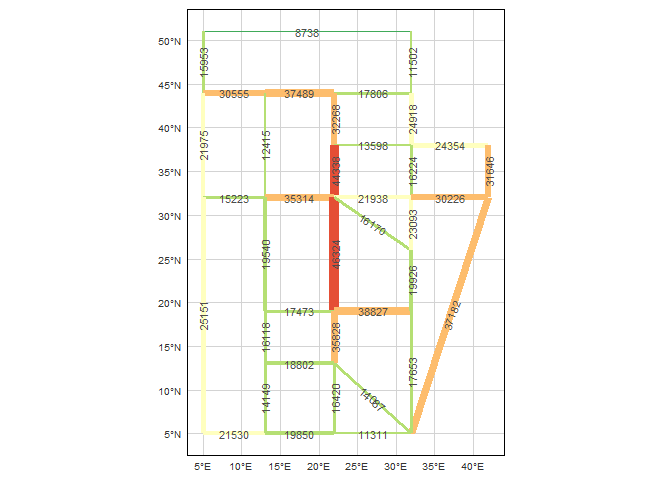
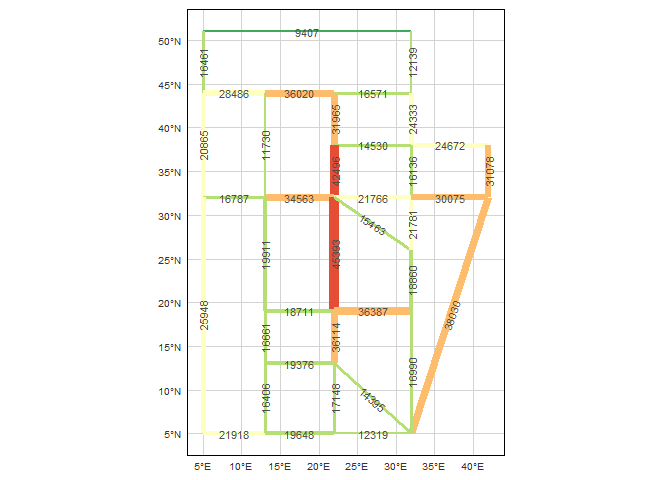
commit 02-01-2020

diff --git a/README.md b/README.md
@@ -7,8 +7,10 @@ douglascm
 
 trafficr is a package for static traffic assignment R code. Currently,
 the program can solve the static traffic assignment problem using user
-equilibrium (UE) for the city network. The solution is achieved using
-the Frank-Wolfe algorithm.
+equilibrium (UE) for the city network in urban traffic assignment. The
+solution is achieved using the Frank-Wolfe algorithm. Package is based
+on [*dodgr*](https://atfutures.github.io/dodgr/index.html) package for
+all-or-nothing assignment, route and time data.
 
 ## How to run traffic assignment
 
@@ -195,8 +197,8 @@ zones <- flist[[2]]
 demand <- configure_demand(sioux_demand,zones)
 
 graph <- solve_ue(graph,demand,col = 'demand')
-#> Number of iterations: 50
-#> Time elapsed: 1.97s
+#> Number of iterations: 39
+#> Time elapsed: 1.53s
 times <- get_times(graph,demand)
 paths <- get_paths(graph,demand)
 
